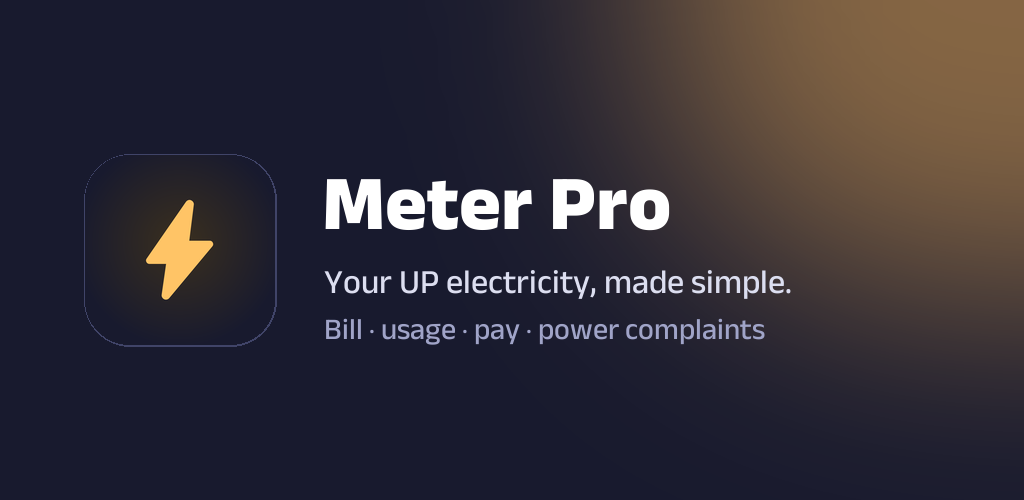
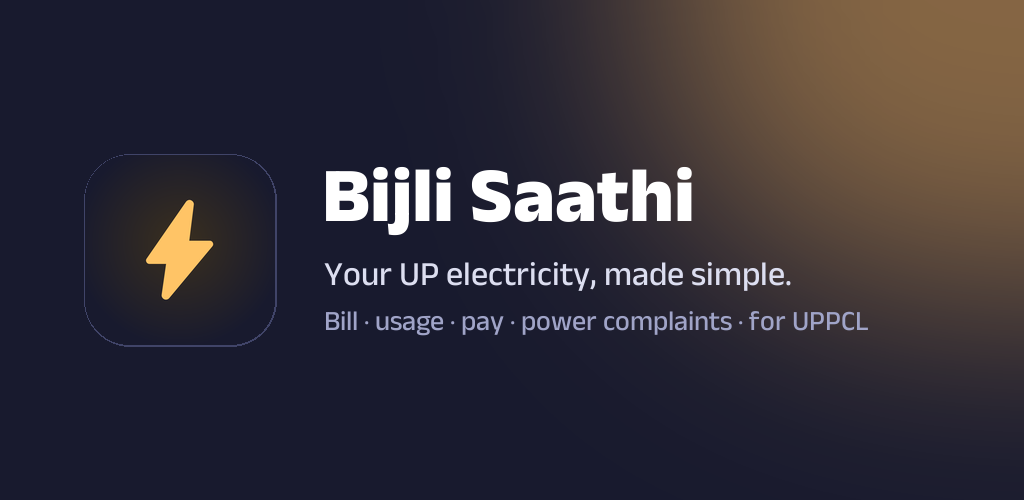
feat(brand): rename to Bijli Saathi ("Bijli Saathi for UPPCL" on stores)
- App name, launcher/widget label, login header, notifications, errors, strings (en/hi: बिजली साथी).
- Store listing titles use Play's "<brand> for <service>" pattern; feature graphic, README, privacy redone.
- Release assets are bijli-saathi-vX.Y.Z.apk/.aab/.ipa from now on (the updater takes any .apk).
- Unchanged on purpose: package id com.harrykp.uppclpro, scheme, alert task id, repo name (updates and
  existing installs keep working; verified installing over the old app on a device).

Changed region(s): [[0.3125, 0.51, 0.8438, 0.69], [0.3125, 0.33, 0.6875, 0.48]]

diff --git a/src/errors.tsx b/src/errors.tsx
@@ -14,7 +14,7 @@ import { Button, Txt } from "./ui";
 import { Icon } from "./icons";
 
 const SYSTEM: Record<ErrorSource, string> = {
-  uppcl: "UPPCL SMART", wss: "UPPCL bill portal", complaints: "UPPCL 1912 complaint portal", app: "UPPCL Pro",
+  uppcl: "UPPCL SMART", wss: "UPPCL bill portal", complaints: "UPPCL 1912 complaint portal", app: "Bijli Saathi",
 };
 
 export function describeError(e: unknown) {
@@ -56,7 +56,7 @@ export function ErrorNote({ error, onRetry, compact, stale }: { error: unknown; 
     d.status ? `${t("err_status")}: HTTP ${d.status}` : d.kind === "network" ? `${t("err_status")}: ${t("err_no_answer")}` : null,
     `${d.kind === "upstream" || d.kind === "session" ? t("err_uppcl_said") : t("err_app_said")}: ${d.reason}`, // no answer = UPPCL said nothing
     `${t("err_time")}: ${new Date(d.at).toLocaleString("en-IN")}`,
-    `UPPCL Pro ${Constants.expoConfig?.version ?? ""}`,
+    `Bijli Saathi ${Constants.expoConfig?.version ?? ""}`,
   ].filter(Boolean) as string[];
   return (
     <View style={[styles.box, { backgroundColor: c.accentSoft }]}>

diff --git a/src/github.tsx b/src/github.tsx
@@ -78,7 +78,7 @@ export function reportProblem(details: string[] = []) {
   const device = Platform.OS === "android" ? `${(Platform.constants as { Model?: string }).Model ?? "Android"} · Android API ${Platform.Version}` : `${Platform.OS} ${Platform.Version}`;
   const body = [
     "**What happened?**", "", "", "**What did you expect?**", "", "",
-    "**Details** (from the app)", "```", ...details, `UPPCL Pro ${APP_VERSION}`, device, "```", "",
+    "**Details** (from the app)", "```", ...details, `Bijli Saathi ${APP_VERSION}`, device, "```", "",
     "_Please remove anything personal (account number, phone, address) before submitting — issues are public._",
   ].join("\n");
   const title = details.length ? `Error: ${details.find((l) => /said|Error/.test(l)) ?? details[0]}`.slice(0, 120) : "";

diff --git a/src/widget.tsx b/src/widget.tsx
@@ -77,7 +77,7 @@ function Body({ snap, c }: { snap: WidgetSnapshot | null; c: Palette }) {
         backgroundGradient: { from: c.glow, to: c.bg, orientation: "TR_BL" },
       }}
     >
-      <TextWidget text={snap ? snap.label : "UPPCL Pro"} style={{ fontSize: 13, fontFamily: regular, color: c.muted }} maxLines={1} truncate="END" />
+      <TextWidget text={snap ? snap.label : "Bijli Saathi"} style={{ fontSize: 13, fontFamily: regular, color: c.muted }} maxLines={1} truncate="END" />
       {snap ? (
         <FlexWidget style={{ flexDirection: "row", alignItems: "flex-end" }}>
           <TextWidget text={snap.big} style={{ fontSize: 40, fontFamily: "AnekLatin_800ExtraBold", color: snap.tone === "critical" ? c.critical : c.big, adjustsFontSizeToFit: true }} maxLines={1} />

diff --git a/app/settings.tsx b/app/settings.tsx
@@ -95,7 +95,7 @@ export default function Settings() {
     await disableAlerts();
     await logout();
     clearPersistentCache(); // every cached response, on screen and on disk
-    clearSnapshot(); // widget shows "Open UPPCL Pro to set up"
+    clearSnapshot(); // widget shows "Open Bijli Saathi to set up"
     keystore.removeItem(NAME_KEY); // the next person to sign in isn't greeted with this name
     // The sign-in gate (_layout) swaps to the sign-in screen when /health flips. Navigating by hand as well
     // raced it: router.replace("/") could land on Home with no session ("Please sign in again" + Try again).

diff --git a/app/pay.tsx b/app/pay.tsx
@@ -1,5 +1,5 @@
 /**
- * Pay bill: a bottom sheet over Home (design: "UPPCL Pro Recharge" mockup, postpaid sheet) —
+ * Pay bill: a bottom sheet over Home (design: "Bijli Saathi Recharge" mockup, postpaid sheet) —
  * bill + due date, the amount due, one Pay button, "Pay a different amount" folded away.
  * Pay the electricity bill inside the app, using UPPCL's own payment flow (BillDesk):
  * bill details → amount → signed BillDesk form, posted in a WebView → UPPCL's result page

diff --git a/app/(tabs)/index.tsx b/app/(tabs)/index.tsx
@@ -42,7 +42,7 @@ export default function Home() {
     <Screen>
       {/* Nothing loaded yet, but Settings (language, sign out) must stay reachable. */}
       <View style={styles.greeting}>
-        <Txt v="title" style={{ flex: 1 }}>UPPCL Pro</Txt>
+        <Txt v="title" style={{ flex: 1 }}>Bijli Saathi</Txt>
         <GearButton />
       </View>
       <ErrorNote error={error} onRetry={() => mutate()} />

diff --git a/src/alerts.ts b/src/alerts.ts
@@ -49,7 +49,7 @@ export function alertsEnabled(): boolean {
 
 async function ensureChannel() {
   await Notifications.setNotificationChannelAsync(CHANNEL, {
-    name: "UPPCL Pro alerts", importance: Notifications.AndroidImportance.DEFAULT, lightColor: "#3B47A8",
+    name: "Bijli Saathi alerts", importance: Notifications.AndroidImportance.DEFAULT, lightColor: "#3B47A8",
   });
 }
 

diff --git a/scripts/ios-smoke.py b/scripts/ios-smoke.py
@@ -28,7 +28,7 @@ o = XCUITestOptions()
 o.set_capability("app", up["app_url"])
 o.set_capability("bstack:options", {
     "userName": user, "accessKey": key, "deviceName": device, "osVersion": os.environ.get("IOS_VERSION", "17"),
-    "projectName": "UPPCL Pro", "buildName": "ios-smoke", "sessionName": "sample" if sample else "real account",
+    "projectName": "Bijli Saathi", "buildName": "ios-smoke", "sessionName": "sample" if sample else "real account",
     "video": False, "networkLogs": False, "appiumLogs": False, "deviceLogs": True,
     "maskCommands": "setValues, getValues, setCookies, getCookies",
 })

diff --git a/README.md b/README.md
@@ -1,12 +1,12 @@
 <div align="center">
 
-<img src="docs/icon.png" width="88" alt="UPPCL Pro">
+<img src="docs/icon.png" width="88" alt="Bijli Saathi">
 
-# Your electricity, made simple.
+# Bijli Saathi
 
-### बिजली की हर बात, आसान
+### Your electricity, made simple. · बिजली की हर बात, आसान
 
-The app for UPPCL smart meters. Your bill, your usage and your power cuts,<br>
+The companion app for UPPCL smart meters. Your bill, your usage and your power cuts,<br>
 answered on the first screen.
 
 <br>
@@ -123,7 +123,7 @@ Every official APK is signed with this key (SHA-256 certificate fingerprint):
 42:5E:6D:CC:C8:67:2D:27:CD:F7:28:F7:BE:24:86:60:AD:D6:17:CC:39:5E:F8:59:C9:13:95:D7:FF:22:C5:CC
 ```
 
-Check a download with `apksigner verify --print-certs uppcl-pro-vX.Y.Z.apk`. Android refuses to update
+Check a download with `apksigner verify --print-certs bijli-saathi-vX.Y.Z.apk`. Android refuses to update
 this app with one signed by a different key.
 </details>
 
@@ -157,7 +157,7 @@ Settings → About → Report a problem.
 
 <sub>
 
-**Unofficial.** UPPCL Pro is an independent open-source app. It is not made by or connected to UPPCL, its
+**Unofficial.** Bijli Saathi is an independent open-source app. It is not made by or connected to UPPCL, its
 discoms (PVVNL, MVVNL, DVVNL, PuVVNL, KESCo) or Jio, and works with UPPCL SMART (smart meter) accounts only.
 
 [Contributing and building from source](CONTRIBUTING.md) · [Security](SECURITY.md) · [How UPPCL's APIs work](docs/api-reverse-engineering.md) · [MIT License](LICENSE) © 2026 Harshit Chaudhary

diff --git a/docs/play-store.md b/docs/play-store.md
@@ -3,7 +3,7 @@
 Everything the app and repo need is done. What's left needs the maintainer's Google account.
 
 ## Already in the repo
-- **Play build**: every `vX.Y.Z` tag's release workflow also builds `uppcl-pro-vX.Y.Z.aab` with
+- **Play build**: every `vX.Y.Z` tag's release workflow also builds `bijli-saathi-vX.Y.Z.aab` with
   `EXPO_PUBLIC_STORE=play` (no GitHub update check; Play forbids self-updating) and checks it.
   Download it from the workflow run's artifacts (kept 90 days).
 - **Demo mode** for reviewers: "Try with sample data" on the sign-in screen (invented data; nothing is

diff --git a/docs/privacy.md b/docs/privacy.md
@@ -1,8 +1,8 @@
-# Privacy policy: Meter Pro for UP Bijli (UPPCL Pro)
+# Privacy policy: Bijli Saathi for UPPCL
 
 _Last updated: 1 October 2026_
 
-Meter Pro is an unofficial, open-source app for UPPCL smart-meter customers. It is not made by, or affiliated
+Bijli Saathi is an unofficial, open-source app for UPPCL smart-meter customers. It is not made by, or affiliated
 with, UPPCL or any discom. There is no server of ours: the app on your phone talks directly to UPPCL.
 
 ## What the app handles, and where it goes

diff --git a/SECURITY.md b/SECURITY.md
@@ -6,4 +6,4 @@ Please report security problems privately, not in a public issue: use GitHub's
 Especially interesting: anything that could leak a user's UPPCL credentials, session token or account
 data off the phone, or let someone tamper with a payment. I'll reply within a few days.
 
-UPPCL Pro is unofficial. Vulnerabilities in UPPCL's own systems should go to UPPCL, not here.
+Bijli Saathi is unofficial. Vulnerabilities in UPPCL's own systems should go to UPPCL, not here.
